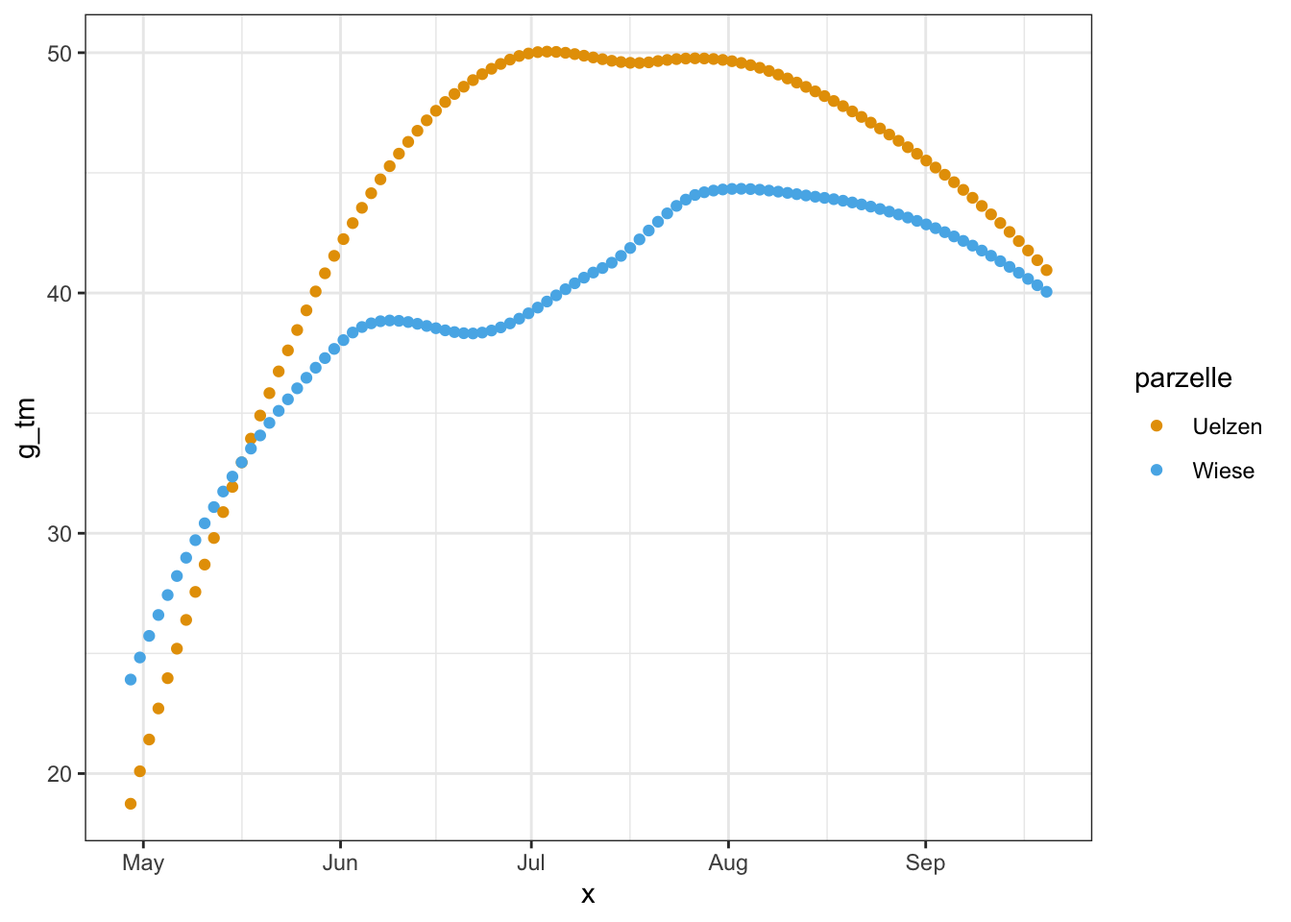
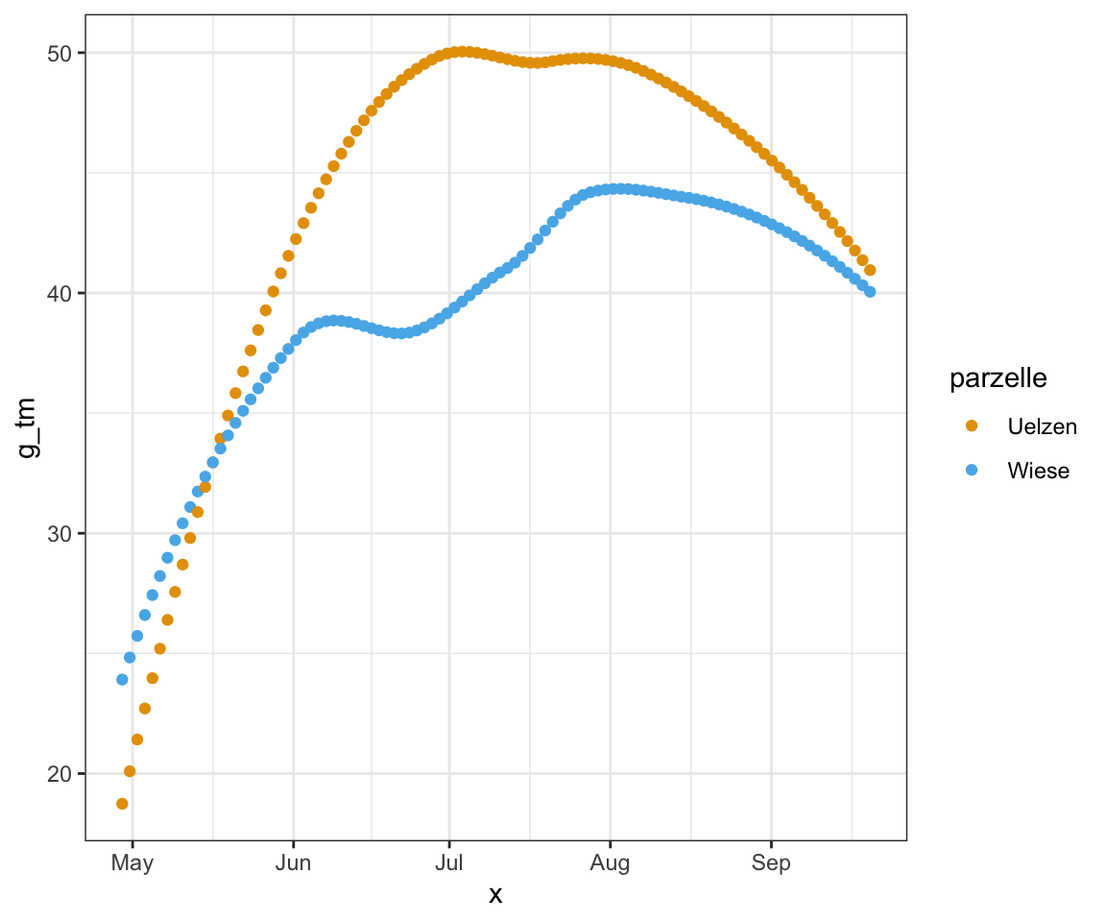
added text

diff --git a/docs/time-space-time-series.html b/docs/time-space-time-series.html
@@ -707,8 +707,18 @@ div.csl-indent {
   <ul>
   <li><a href="#genutzte-r-pakete" id="toc-genutzte-r-pakete" class="nav-link active" data-scroll-target="#genutzte-r-pakete"><span class="header-section-number">59.1</span> Genutzte R Pakete</a></li>
   <li><a href="#daten" id="toc-daten" class="nav-link" data-scroll-target="#daten"><span class="header-section-number">59.2</span> Daten</a></li>
-  <li><a href="#das-datumsformat" id="toc-das-datumsformat" class="nav-link" data-scroll-target="#das-datumsformat"><span class="header-section-number">59.3</span> Das Datumsformat</a></li>
-  <li><a href="#visualisierung" id="toc-visualisierung" class="nav-link" data-scroll-target="#visualisierung"><span class="header-section-number">59.4</span> Visualisierung</a></li>
+  <li><a href="#das-datumsformat" id="toc-das-datumsformat" class="nav-link" data-scroll-target="#das-datumsformat"><span class="header-section-number">59.3</span> Das Datumsformat</a>
+  <ul class="collapse">
+  <li><a href="#die-csh-daten" id="toc-die-csh-daten" class="nav-link" data-scroll-target="#die-csh-daten"><span class="header-section-number">59.3.1</span> Die CSH-Daten</a></li>
+  <li><a href="#die-salatdaten" id="toc-die-salatdaten" class="nav-link" data-scroll-target="#die-salatdaten"><span class="header-section-number">59.3.2</span> Die Salatdaten</a></li>
+  <li><a href="#die-wetterstationsdaten" id="toc-die-wetterstationsdaten" class="nav-link" data-scroll-target="#die-wetterstationsdaten"><span class="header-section-number">59.3.3</span> Die Wetterstationsdaten</a></li>
+  </ul></li>
+  <li><a href="#visualisierung" id="toc-visualisierung" class="nav-link" data-scroll-target="#visualisierung"><span class="header-section-number">59.4</span> Visualisierung</a>
+  <ul class="collapse">
+  <li><a href="#die-csh-daten-1" id="toc-die-csh-daten-1" class="nav-link" data-scroll-target="#die-csh-daten-1"><span class="header-section-number">59.4.1</span> Die CSH Daten</a></li>
+  <li><a href="#salat-daten" id="toc-salat-daten" class="nav-link" data-scroll-target="#salat-daten"><span class="header-section-number">59.4.2</span> Salat Daten</a></li>
+  <li><a href="#die-wetterstationsdaten-1" id="toc-die-wetterstationsdaten-1" class="nav-link" data-scroll-target="#die-wetterstationsdaten-1"><span class="header-section-number">59.4.3</span> Die Wetterstationsdaten</a></li>
+  </ul></li>
   <li><a href="#links" id="toc-links" class="nav-link" data-scroll-target="#links"><span class="header-section-number">59.5</span> Links</a></li>
   <li><a href="#referenzen" id="toc-referenzen" class="nav-link" data-scroll-target="#referenzen">Referenzen</a></li>
   </ul>
@@ -734,7 +744,7 @@ div.csl-indent {
 
 </header>
 
-<p><em>Letzte Änderung am 03. October 2023 um 12:13:49</em></p>
+<p><em>Letzte Änderung am 03. October 2023 um 13:11:06</em></p>
 <blockquote class="blockquote">
 <p><em>“Die Vergangenheit ist geschrieben, aber die Zukunft ist noch nicht in Stein gemeißelt” — Jean-Luc Picard, Star Trek: The Next Generation</em></p>
 </blockquote>
@@ -756,7 +766,7 @@ div.csl-indent {
 </section>
 <section id="daten" class="level2 page-columns page-full" data-number="59.2">
 <h2 data-number="59.2" class="anchored" data-anchor-id="daten"><span class="header-section-number">59.2</span> Daten</h2>
-<p>In diesem Kapitel nutzen wir</p>
+<p>In diesem Kapitel nutzen wir CSH-Datei-Erweiterung ist ein Datenformat als Photoshop-Datei</p>
 <div class="cell">
 <div class="sourceCode cell-code" id="cb2"><pre class="sourceCode r code-with-copy"><code class="sourceCode r"><span id="cb2-1"><a href="#cb2-1" aria-hidden="true" tabindex="-1"></a>csh_tbl <span class="ot">&lt;-</span> <span class="fu">read_excel</span>(<span class="st">"data/csh_data.xlsx"</span>) <span class="sc">%&gt;%</span> </span>
 <span id="cb2-2"><a href="#cb2-2" aria-hidden="true" tabindex="-1"></a>  <span class="fu">clean_names</span>() <span class="sc">%&gt;%</span> </span>
@@ -859,7 +869,7 @@ div.csl-indent {
 </div>
 <p>Nächster Datensatz</p>
 <div class="cell">
-<div class="sourceCode cell-code" id="cb3"><pre class="sourceCode r code-with-copy"><code class="sourceCode r"><span id="cb3-1"><a href="#cb3-1" aria-hidden="true" tabindex="-1"></a>temp_tbl <span class="ot">&lt;-</span> <span class="fu">read_excel</span>(<span class="st">"data/temperatur_salad.xlsx"</span>) <span class="sc">%&gt;%</span> </span>
+<div class="sourceCode cell-code" id="cb3"><pre class="sourceCode r code-with-copy"><code class="sourceCode r"><span id="cb3-1"><a href="#cb3-1" aria-hidden="true" tabindex="-1"></a>salad_tbl <span class="ot">&lt;-</span> <span class="fu">read_excel</span>(<span class="st">"data/temperatur_salad.xlsx"</span>) <span class="sc">%&gt;%</span> </span>
 <span id="cb3-2"><a href="#cb3-2" aria-hidden="true" tabindex="-1"></a>  <span class="fu">clean_names</span>() <span class="sc">%&gt;%</span> </span>
 <span id="cb3-3"><a href="#cb3-3" aria-hidden="true" tabindex="-1"></a>  <span class="fu">mutate_if</span>(is.numeric, round, <span class="dv">2</span>)</span></code><button title="In die Zwischenablage kopieren" class="code-copy-button"><i class="bi"></i></button></pre></div>
 </div>
@@ -1179,6 +1189,8 @@ div.csl-indent {
 <h2 data-number="59.3" class="anchored" data-anchor-id="das-datumsformat"><span class="header-section-number">59.3</span> Das Datumsformat</h2>
 <p>Wichtig ist, dass wir das richtige Datumsformat haben. Siehe dazu auch das Kapitel <a href="programing-strings.html#sec-time-date">Zeit und Datum</a></p>
 <p><a href="https://www.r-bloggers.com/2013/08/date-formats-in-r/">Date Formats in R</a></p>
+<section id="die-csh-daten" class="level3" data-number="59.3.1">
+<h3 data-number="59.3.1" class="anchored" data-anchor-id="die-csh-daten"><span class="header-section-number">59.3.1</span> Die CSH-Daten</h3>
 <div class="cell">
 <div class="sourceCode cell-code" id="cb5"><pre class="sourceCode r code-with-copy"><code class="sourceCode r"><span id="cb5-1"><a href="#cb5-1" aria-hidden="true" tabindex="-1"></a>csh_tbl <span class="ot">&lt;-</span> csh_tbl <span class="sc">%&gt;%</span> </span>
 <span id="cb5-2"><a href="#cb5-2" aria-hidden="true" tabindex="-1"></a>  <span class="fu">mutate</span>(<span class="at">day =</span> <span class="fu">as.Date</span>(<span class="fu">str_pad</span>(day, <span class="dv">4</span>, <span class="at">pad =</span> <span class="st">"0"</span>, <span class="at">side =</span> <span class="st">"left"</span>), <span class="at">format =</span> <span class="st">"%m%d"</span>))</span></code><button title="In die Zwischenablage kopieren" class="code-copy-button"><i class="bi"></i></button></pre></div>
@@ -1196,27 +1208,40 @@ div.csl-indent {
 4 Wiese    2023-04-28      20.9    1521.          8       0.23</code></pre>
 </div>
 </div>
+</section>
+<section id="die-salatdaten" class="level3" data-number="59.3.2">
+<h3 data-number="59.3.2" class="anchored" data-anchor-id="die-salatdaten"><span class="header-section-number">59.3.2</span> Die Salatdaten</h3>
 <div class="cell">
-<div class="sourceCode cell-code" id="cb8"><pre class="sourceCode r code-with-copy"><code class="sourceCode r"><span id="cb8-1"><a href="#cb8-1" aria-hidden="true" tabindex="-1"></a>time_long_tbl <span class="ot">&lt;-</span> time_tbl <span class="sc">%&gt;%</span> </span>
+<div class="sourceCode cell-code" id="cb8"><pre class="sourceCode r code-with-copy"><code class="sourceCode r"><span id="cb8-1"><a href="#cb8-1" aria-hidden="true" tabindex="-1"></a>salad_long_tbl <span class="ot">&lt;-</span> salad_tbl <span class="sc">%&gt;%</span> </span>
 <span id="cb8-2"><a href="#cb8-2" aria-hidden="true" tabindex="-1"></a>  <span class="fu">mutate</span>(<span class="at">uhrzeit =</span> <span class="fu">format</span>(uhrzeit, <span class="at">format =</span> <span class="st">"%H:%M:%S"</span>),</span>
 <span id="cb8-3"><a href="#cb8-3" aria-hidden="true" tabindex="-1"></a>         <span class="at">datum =</span> <span class="fu">format</span>(datum, <span class="at">format =</span> <span class="st">"%Y-%m-%d"</span>),</span>
 <span id="cb8-4"><a href="#cb8-4" aria-hidden="true" tabindex="-1"></a>         <span class="at">datum =</span> <span class="fu">ymd</span>(datum) <span class="sc">+</span> <span class="fu">hms</span>(uhrzeit)) <span class="sc">%&gt;%</span> </span>
-<span id="cb8-5"><a href="#cb8-5" aria-hidden="true" tabindex="-1"></a>  <span class="fu">pivot_longer</span>(x2_messw<span class="sc">:</span><span class="fu">last_col</span>(),</span>
-<span id="cb8-6"><a href="#cb8-6" aria-hidden="true" tabindex="-1"></a>               <span class="at">names_sep =</span> <span class="st">"_"</span>,</span>
-<span id="cb8-7"><a href="#cb8-7" aria-hidden="true" tabindex="-1"></a>               <span class="at">names_to =</span> <span class="fu">c</span>(<span class="st">"wdh"</span>, <span class="st">"type"</span>),</span>
-<span id="cb8-8"><a href="#cb8-8" aria-hidden="true" tabindex="-1"></a>               <span class="at">values_to =</span> <span class="st">"temp"</span>) <span class="sc">%&gt;%</span> </span>
-<span id="cb8-9"><a href="#cb8-9" aria-hidden="true" tabindex="-1"></a>  <span class="fu">mutate</span>(<span class="at">wdh =</span> <span class="fu">str_replace</span>(wdh, <span class="st">"^x"</span>, <span class="st">""</span>))</span></code><button title="In die Zwischenablage kopieren" class="code-copy-button"><i class="bi"></i></button></pre></div>
+<span id="cb8-5"><a href="#cb8-5" aria-hidden="true" tabindex="-1"></a>  <span class="fu">select</span>(<span class="sc">-</span>uhrzeit) <span class="sc">%&gt;%</span> </span>
+<span id="cb8-6"><a href="#cb8-6" aria-hidden="true" tabindex="-1"></a>  <span class="fu">pivot_longer</span>(nord_messw<span class="sc">:</span><span class="fu">last_col</span>(),</span>
+<span id="cb8-7"><a href="#cb8-7" aria-hidden="true" tabindex="-1"></a>               <span class="at">names_sep =</span> <span class="st">"_"</span>,</span>
+<span id="cb8-8"><a href="#cb8-8" aria-hidden="true" tabindex="-1"></a>               <span class="at">names_to =</span> <span class="fu">c</span>(<span class="st">"location"</span>, <span class="st">"type"</span>),</span>
+<span id="cb8-9"><a href="#cb8-9" aria-hidden="true" tabindex="-1"></a>               <span class="at">values_to =</span> <span class="st">"temp"</span>) </span></code><button title="In die Zwischenablage kopieren" class="code-copy-button"><i class="bi"></i></button></pre></div>
 </div>
+</section>
+<section id="die-wetterstationsdaten" class="level3" data-number="59.3.3">
+<h3 data-number="59.3.3" class="anchored" data-anchor-id="die-wetterstationsdaten"><span class="header-section-number">59.3.3</span> Die Wetterstationsdaten</h3>
+<div class="cell">
+<div class="sourceCode cell-code" id="cb9"><pre class="sourceCode r code-with-copy"><code class="sourceCode r"><span id="cb9-1"><a href="#cb9-1" aria-hidden="true" tabindex="-1"></a>station_tbl <span class="ot">&lt;-</span> station_tbl <span class="sc">%&gt;%</span> </span>
+<span id="cb9-2"><a href="#cb9-2" aria-hidden="true" tabindex="-1"></a>  <span class="fu">mutate</span>(<span class="at">datum_uhrzeit =</span> <span class="fu">as_datetime</span>(datum_uhrzeit))</span></code><button title="In die Zwischenablage kopieren" class="code-copy-button"><i class="bi"></i></button></pre></div>
+</div>
+</section>
 </section>
 <section id="visualisierung" class="level2 page-columns page-full" data-number="59.4">
 <h2 data-number="59.4" class="anchored" data-anchor-id="visualisierung"><span class="header-section-number">59.4</span> Visualisierung</h2>
+<section id="die-csh-daten-1" class="level3 page-columns page-full" data-number="59.4.1">
+<h3 data-number="59.4.1" class="anchored" data-anchor-id="die-csh-daten-1"><span class="header-section-number">59.4.1</span> Die CSH Daten</h3>
 <div class="cell" data-layout-align="center">
-<div class="sourceCode cell-code" id="cb9"><pre class="sourceCode r code-with-copy"><code class="sourceCode r"><span id="cb9-1"><a href="#cb9-1" aria-hidden="true" tabindex="-1"></a>csh_tbl <span class="sc">%&gt;%</span> </span>
-<span id="cb9-2"><a href="#cb9-2" aria-hidden="true" tabindex="-1"></a>  <span class="fu">ggplot</span>(<span class="fu">aes</span>(day, g_tm_plot, <span class="at">color =</span> parzelle)) <span class="sc">+</span></span>
-<span id="cb9-3"><a href="#cb9-3" aria-hidden="true" tabindex="-1"></a>  <span class="fu">theme_bw</span>() <span class="sc">+</span></span>
-<span id="cb9-4"><a href="#cb9-4" aria-hidden="true" tabindex="-1"></a>  <span class="fu">geom_point</span>() <span class="sc">+</span></span>
-<span id="cb9-5"><a href="#cb9-5" aria-hidden="true" tabindex="-1"></a>  <span class="fu">stat_smooth</span>(<span class="at">se =</span> <span class="cn">FALSE</span>) <span class="sc">+</span></span>
-<span id="cb9-6"><a href="#cb9-6" aria-hidden="true" tabindex="-1"></a>  <span class="fu">scale_color_okabeito</span>() </span></code><button title="In die Zwischenablage kopieren" class="code-copy-button"><i class="bi"></i></button></pre></div>
+<div class="sourceCode cell-code" id="cb10"><pre class="sourceCode r code-with-copy"><code class="sourceCode r"><span id="cb10-1"><a href="#cb10-1" aria-hidden="true" tabindex="-1"></a>csh_tbl <span class="sc">%&gt;%</span> </span>
+<span id="cb10-2"><a href="#cb10-2" aria-hidden="true" tabindex="-1"></a>  <span class="fu">ggplot</span>(<span class="fu">aes</span>(day, g_tm_plot, <span class="at">color =</span> parzelle)) <span class="sc">+</span></span>
+<span id="cb10-3"><a href="#cb10-3" aria-hidden="true" tabindex="-1"></a>  <span class="fu">theme_bw</span>() <span class="sc">+</span></span>
+<span id="cb10-4"><a href="#cb10-4" aria-hidden="true" tabindex="-1"></a>  <span class="fu">geom_point</span>() <span class="sc">+</span></span>
+<span id="cb10-5"><a href="#cb10-5" aria-hidden="true" tabindex="-1"></a>  <span class="fu">stat_smooth</span>(<span class="at">se =</span> <span class="cn">FALSE</span>) <span class="sc">+</span></span>
+<span id="cb10-6"><a href="#cb10-6" aria-hidden="true" tabindex="-1"></a>  <span class="fu">scale_color_okabeito</span>() </span></code><button title="In die Zwischenablage kopieren" class="code-copy-button"><i class="bi"></i></button></pre></div>
 <div class="cell-output-display">
 <div id="fig-time-csh-1" class="quarto-figure quarto-figure-center anchored">
 <figure class="figure">
@@ -1227,58 +1252,58 @@ div.csl-indent {
 </div>
 </div>
 <div class="cell" data-layout-align="center">
-<div class="sourceCode cell-code" id="annotated-cell-9"><pre class="sourceCode r code-annotation-code code-with-copy code-annotated"><code class="sourceCode r"><span id="annotated-cell-9-1"><a href="#annotated-cell-9-1" aria-hidden="true" tabindex="-1"></a>p_csh <span class="ot">&lt;-</span> csh_tbl <span class="sc">%&gt;%</span> </span>
-<span id="annotated-cell-9-2"><a href="#annotated-cell-9-2" aria-hidden="true" tabindex="-1"></a>  <span class="fu">ggplot</span>() <span class="sc">+</span></span>
-<span id="annotated-cell-9-3"><a href="#annotated-cell-9-3" aria-hidden="true" tabindex="-1"></a>  <span class="fu">theme_bw</span>() <span class="sc">+</span></span>
-<span id="annotated-cell-9-4"><a href="#annotated-cell-9-4" aria-hidden="true" tabindex="-1"></a>  <span class="fu">scale_color_okabeito</span>() <span class="sc">+</span></span>
-<button class="code-annotation-anchor" data-target-cell="annotated-cell-9" data-target-annotation="1">1</button><span id="annotated-cell-9-5" class="code-annotation-target"><a href="#annotated-cell-9-5" aria-hidden="true" tabindex="-1"></a>  <span class="fu">stat_smooth</span>(<span class="fu">aes</span>(day, g_tm_plot, <span class="at">color =</span> parzelle), <span class="at">se =</span> <span class="cn">FALSE</span>, <span class="at">n =</span> <span class="dv">100</span>)</span><div class="code-annotation-gutter-bg"></div><div class="code-annotation-gutter"></div></code><button title="In die Zwischenablage kopieren" class="code-copy-button"><i class="bi"></i></button></pre></div>
+<div class="sourceCode cell-code" id="annotated-cell-10"><pre class="sourceCode r code-annotation-code code-with-copy code-annotated"><code class="sourceCode r"><span id="annotated-cell-10-1"><a href="#annotated-cell-10-1" aria-hidden="true" tabindex="-1"></a>p_csh <span class="ot">&lt;-</span> csh_tbl <span class="sc">%&gt;%</span> </span>
+<span id="annotated-cell-10-2"><a href="#annotated-cell-10-2" aria-hidden="true" tabindex="-1"></a>  <span class="fu">ggplot</span>() <span class="sc">+</span></span>
+<span id="annotated-cell-10-3"><a href="#annotated-cell-10-3" aria-hidden="true" tabindex="-1"></a>  <span class="fu">theme_bw</span>() <span class="sc">+</span></span>
+<span id="annotated-cell-10-4"><a href="#annotated-cell-10-4" aria-hidden="true" tabindex="-1"></a>  <span class="fu">scale_color_okabeito</span>() <span class="sc">+</span></span>
+<button class="code-annotation-anchor" data-target-cell="annotated-cell-10" data-target-annotation="1">1</button><span id="annotated-cell-10-5" class="code-annotation-target"><a href="#annotated-cell-10-5" aria-hidden="true" tabindex="-1"></a>  <span class="fu">stat_smooth</span>(<span class="fu">aes</span>(day, g_tm_plot, <span class="at">color =</span> parzelle), <span class="at">se =</span> <span class="cn">FALSE</span>, <span class="at">n =</span> <span class="dv">100</span>)</span><div class="code-annotation-gutter-bg"></div><div class="code-annotation-gutter"></div></code><button title="In die Zwischenablage kopieren" class="code-copy-button"><i class="bi"></i></button></pre></div>
 <div class="cell-annotation">
 <dl class="code-annotation-container-hidden code-annotation-container-grid">
-<dt data-target-cell="annotated-cell-9" data-target-annotation="1">1</dt>
+<dt data-target-cell="annotated-cell-10" data-target-annotation="1">1</dt>
 <dd>
-<span data-code-cell="annotated-cell-9" data-code-annotation="1" data-code-lines="5">Setze <code>n = 1000</code> um wirklich eine gute Abdeckung später für die Berechung der Fläche zu haben.</span>
+<span data-code-lines="5" data-code-annotation="1" data-code-cell="annotated-cell-10">Setze <code>n = 1000</code> um wirklich eine gute Abdeckung später für die Berechung der Fläche zu haben.</span>
 </dd>
 </dl>
 </div>
 </div>
 <div class="cell">
-<div class="sourceCode cell-code" id="cb10"><pre class="sourceCode r code-with-copy"><code class="sourceCode r"><span id="cb10-1"><a href="#cb10-1" aria-hidden="true" tabindex="-1"></a>p_csh_str <span class="ot">&lt;-</span> <span class="fu">ggplot_build</span>(p_csh)</span></code><button title="In die Zwischenablage kopieren" class="code-copy-button"><i class="bi"></i></button></pre></div>
+<div class="sourceCode cell-code" id="cb11"><pre class="sourceCode r code-with-copy"><code class="sourceCode r"><span id="cb11-1"><a href="#cb11-1" aria-hidden="true" tabindex="-1"></a>p_csh_str <span class="ot">&lt;-</span> <span class="fu">ggplot_build</span>(p_csh)</span></code><button title="In die Zwischenablage kopieren" class="code-copy-button"><i class="bi"></i></button></pre></div>
 </div>
 <div class="cell">
-<div class="sourceCode cell-code" id="annotated-cell-11"><pre class="sourceCode r code-annotation-code code-with-copy code-annotated"><code class="sourceCode r"><span id="annotated-cell-11-1"><a href="#annotated-cell-11-1" aria-hidden="true" tabindex="-1"></a>ribbon_tbl <span class="ot">&lt;-</span> p_csh_str <span class="sc">%&gt;%</span> </span>
-<span id="annotated-cell-11-2"><a href="#annotated-cell-11-2" aria-hidden="true" tabindex="-1"></a>  <span class="fu">pluck</span>(<span class="st">"data"</span>, <span class="dv">1</span>) <span class="sc">%&gt;%</span> </span>
-<span id="annotated-cell-11-3"><a href="#annotated-cell-11-3" aria-hidden="true" tabindex="-1"></a>  <span class="fu">as_tibble</span>() <span class="sc">%&gt;%</span> </span>
-<span id="annotated-cell-11-4"><a href="#annotated-cell-11-4" aria-hidden="true" tabindex="-1"></a>  <span class="fu">select</span>(x, y, group) <span class="sc">%&gt;%</span> </span>
-<span id="annotated-cell-11-5"><a href="#annotated-cell-11-5" aria-hidden="true" tabindex="-1"></a>  <span class="fu">mutate</span>(<span class="at">group =</span> <span class="fu">factor</span>(group, <span class="at">labels =</span> <span class="fu">c</span>(<span class="st">"Uelzen"</span>, <span class="st">"Wiese"</span>))) <span class="sc">%&gt;%</span> </span>
-<span id="annotated-cell-11-6"><a href="#annotated-cell-11-6" aria-hidden="true" tabindex="-1"></a>  <span class="fu">split</span>(.<span class="sc">$</span>group) <span class="sc">%&gt;%</span> </span>
-<span id="annotated-cell-11-7"><a href="#annotated-cell-11-7" aria-hidden="true" tabindex="-1"></a>  <span class="fu">bind_cols</span>() <span class="sc">%&gt;%</span> </span>
-<span id="annotated-cell-11-8"><a href="#annotated-cell-11-8" aria-hidden="true" tabindex="-1"></a>  <span class="fu">clean_names</span>() <span class="sc">%&gt;%</span> </span>
-<button class="code-annotation-anchor" data-target-cell="annotated-cell-11" data-target-annotation="1">1</button><span id="annotated-cell-11-9" class="code-annotation-target"><a href="#annotated-cell-11-9" aria-hidden="true" tabindex="-1"></a>  <span class="fu">select</span>(<span class="at">x =</span> x_1, <span class="at">Uelzen =</span> y_2, <span class="at">Wiese =</span> y_5) <span class="sc">%&gt;%</span></span>
-<button class="code-annotation-anchor" data-target-cell="annotated-cell-11" data-target-annotation="2">2</button><span id="annotated-cell-11-10" class="code-annotation-target"><a href="#annotated-cell-11-10" aria-hidden="true" tabindex="-1"></a>  <span class="fu">mutate</span>(<span class="at">x =</span> <span class="fu">as_date</span>(x, <span class="at">origin =</span> lubridate<span class="sc">::</span>origin))</span><div class="code-annotation-gutter-bg"></div><div class="code-annotation-gutter"></div></code><button title="In die Zwischenablage kopieren" class="code-copy-button"><i class="bi"></i></button></pre></div>
+<div class="sourceCode cell-code" id="annotated-cell-12"><pre class="sourceCode r code-annotation-code code-with-copy code-annotated"><code class="sourceCode r"><span id="annotated-cell-12-1"><a href="#annotated-cell-12-1" aria-hidden="true" tabindex="-1"></a>ribbon_tbl <span class="ot">&lt;-</span> p_csh_str <span class="sc">%&gt;%</span> </span>
+<span id="annotated-cell-12-2"><a href="#annotated-cell-12-2" aria-hidden="true" tabindex="-1"></a>  <span class="fu">pluck</span>(<span class="st">"data"</span>, <span class="dv">1</span>) <span class="sc">%&gt;%</span> </span>
+<span id="annotated-cell-12-3"><a href="#annotated-cell-12-3" aria-hidden="true" tabindex="-1"></a>  <span class="fu">as_tibble</span>() <span class="sc">%&gt;%</span> </span>
+<span id="annotated-cell-12-4"><a href="#annotated-cell-12-4" aria-hidden="true" tabindex="-1"></a>  <span class="fu">select</span>(x, y, group) <span class="sc">%&gt;%</span> </span>
+<span id="annotated-cell-12-5"><a href="#annotated-cell-12-5" aria-hidden="true" tabindex="-1"></a>  <span class="fu">mutate</span>(<span class="at">group =</span> <span class="fu">factor</span>(group, <span class="at">labels =</span> <span class="fu">c</span>(<span class="st">"Uelzen"</span>, <span class="st">"Wiese"</span>))) <span class="sc">%&gt;%</span> </span>
+<span id="annotated-cell-12-6"><a href="#annotated-cell-12-6" aria-hidden="true" tabindex="-1"></a>  <span class="fu">split</span>(.<span class="sc">$</span>group) <span class="sc">%&gt;%</span> </span>
+<span id="annotated-cell-12-7"><a href="#annotated-cell-12-7" aria-hidden="true" tabindex="-1"></a>  <span class="fu">bind_cols</span>() <span class="sc">%&gt;%</span> </span>
+<span id="annotated-cell-12-8"><a href="#annotated-cell-12-8" aria-hidden="true" tabindex="-1"></a>  <span class="fu">clean_names</span>() <span class="sc">%&gt;%</span> </span>
+<button class="code-annotation-anchor" data-target-cell="annotated-cell-12" data-target-annotation="1">1</button><span id="annotated-cell-12-9" class="code-annotation-target"><a href="#annotated-cell-12-9" aria-hidden="true" tabindex="-1"></a>  <span class="fu">select</span>(<span class="at">x =</span> x_1, <span class="at">Uelzen =</span> y_2, <span class="at">Wiese =</span> y_5) <span class="sc">%&gt;%</span></span>
+<button class="code-annotation-anchor" data-target-cell="annotated-cell-12" data-target-annotation="2">2</button><span id="annotated-cell-12-10" class="code-annotation-target"><a href="#annotated-cell-12-10" aria-hidden="true" tabindex="-1"></a>  <span class="fu">mutate</span>(<span class="at">x =</span> <span class="fu">as_date</span>(x, <span class="at">origin =</span> lubridate<span class="sc">::</span>origin))</span><div class="code-annotation-gutter-bg"></div><div class="code-annotation-gutter"></div></code><button title="In die Zwischenablage kopieren" class="code-copy-button"><i class="bi"></i></button></pre></div>
 <div class="cell-annotation">
 <dl class="code-annotation-container-hidden code-annotation-container-grid">
-<dt data-target-cell="annotated-cell-11" data-target-annotation="1">1</dt>
+<dt data-target-cell="annotated-cell-12" data-target-annotation="1">1</dt>
 <dd>
-<span data-code-cell="annotated-cell-11" data-code-annotation="1" data-code-lines="9">Die <code>y_2</code> Werte sind die Werte aus Uelzen und die <code>y_5</code> Werte von der Wiese.</span>
+<span data-code-lines="9" data-code-annotation="1" data-code-cell="annotated-cell-12">Die <code>y_2</code> Werte sind die Werte aus Uelzen und die <code>y_5</code> Werte von der Wiese.</span>
 </dd>
-<dt data-target-cell="annotated-cell-11" data-target-annotation="2">2</dt>
+<dt data-target-cell="annotated-cell-12" data-target-annotation="2">2</dt>
 <dd>
-<span data-code-cell="annotated-cell-11" data-code-annotation="2" data-code-lines="10">Die <code>x</code>-Werte sind noch das Datum in numerischer Form aus <code>ggplot()</code>. Hier wieder zurück ins <code>yyyy-mm-dd</code> Format.</span>
+<span data-code-lines="10" data-code-annotation="2" data-code-cell="annotated-cell-12">Die <code>x</code>-Werte sind noch das Datum in numerischer Form aus <code>ggplot()</code>. Hier wieder zurück ins <code>yyyy-mm-dd</code> Format.</span>
 </dd>
 </dl>
 </div>
 </div>
 <div class="page-columns page-full">
-<div class="sourceCode cell-code" id="cb11"><pre class="sourceCode r code-with-copy"><code class="sourceCode r"><span id="cb11-1"><a href="#cb11-1" aria-hidden="true" tabindex="-1"></a>p_csh <span class="sc">+</span> </span>
-<span id="cb11-2"><a href="#cb11-2" aria-hidden="true" tabindex="-1"></a>  <span class="fu">geom_ribbon</span>(<span class="at">data =</span> ribbon_tbl, <span class="fu">aes</span>(<span class="at">x =</span> x, <span class="at">ymin =</span> Wiese, <span class="at">ymax =</span> Uelzen),</span>
-<span id="cb11-3"><a href="#cb11-3" aria-hidden="true" tabindex="-1"></a>                    <span class="at">fill =</span> <span class="st">"grey"</span>, <span class="at">alpha =</span> <span class="fl">0.4</span>) <span class="sc">+</span></span>
-<span id="cb11-4"><a href="#cb11-4" aria-hidden="true" tabindex="-1"></a>  <span class="fu">ylim</span>(<span class="dv">10</span>, <span class="dv">120</span>)</span>
-<span id="cb11-5"><a href="#cb11-5" aria-hidden="true" tabindex="-1"></a></span>
-<span id="cb11-6"><a href="#cb11-6" aria-hidden="true" tabindex="-1"></a>p_csh <span class="sc">+</span> </span>
-<span id="cb11-7"><a href="#cb11-7" aria-hidden="true" tabindex="-1"></a>  <span class="fu">geom_ribbon</span>(<span class="at">data =</span> ribbon_tbl, <span class="fu">aes</span>(<span class="at">x =</span> x, <span class="at">ymin =</span> Wiese, <span class="at">ymax =</span> Uelzen),</span>
-<span id="cb11-8"><a href="#cb11-8" aria-hidden="true" tabindex="-1"></a>                    <span class="at">fill =</span> <span class="st">"grey"</span>, <span class="at">alpha =</span> <span class="fl">0.4</span>) <span class="sc">+</span></span>
-<span id="cb11-9"><a href="#cb11-9" aria-hidden="true" tabindex="-1"></a>  <span class="fu">geom_point</span>(<span class="fu">aes</span>(day, g_tm_plot, <span class="at">color =</span> parzelle)) <span class="sc">+</span></span>
-<span id="cb11-10"><a href="#cb11-10" aria-hidden="true" tabindex="-1"></a>  <span class="fu">ylim</span>(<span class="dv">10</span>, <span class="dv">120</span>)</span></code><button title="In die Zwischenablage kopieren" class="code-copy-button"><i class="bi"></i></button></pre></div>
+<div class="sourceCode cell-code" id="cb12"><pre class="sourceCode r code-with-copy"><code class="sourceCode r"><span id="cb12-1"><a href="#cb12-1" aria-hidden="true" tabindex="-1"></a>p_csh <span class="sc">+</span> </span>
+<span id="cb12-2"><a href="#cb12-2" aria-hidden="true" tabindex="-1"></a>  <span class="fu">geom_ribbon</span>(<span class="at">data =</span> ribbon_tbl, <span class="fu">aes</span>(<span class="at">x =</span> x, <span class="at">ymin =</span> Wiese, <span class="at">ymax =</span> Uelzen),</span>
+<span id="cb12-3"><a href="#cb12-3" aria-hidden="true" tabindex="-1"></a>                    <span class="at">fill =</span> <span class="st">"grey"</span>, <span class="at">alpha =</span> <span class="fl">0.4</span>) <span class="sc">+</span></span>
+<span id="cb12-4"><a href="#cb12-4" aria-hidden="true" tabindex="-1"></a>  <span class="fu">ylim</span>(<span class="dv">10</span>, <span class="dv">120</span>)</span>
+<span id="cb12-5"><a href="#cb12-5" aria-hidden="true" tabindex="-1"></a></span>
+<span id="cb12-6"><a href="#cb12-6" aria-hidden="true" tabindex="-1"></a>p_csh <span class="sc">+</span> </span>
+<span id="cb12-7"><a href="#cb12-7" aria-hidden="true" tabindex="-1"></a>  <span class="fu">geom_ribbon</span>(<span class="at">data =</span> ribbon_tbl, <span class="fu">aes</span>(<span class="at">x =</span> x, <span class="at">ymin =</span> Wiese, <span class="at">ymax =</span> Uelzen),</span>
+<span id="cb12-8"><a href="#cb12-8" aria-hidden="true" tabindex="-1"></a>                    <span class="at">fill =</span> <span class="st">"grey"</span>, <span class="at">alpha =</span> <span class="fl">0.4</span>) <span class="sc">+</span></span>
+<span id="cb12-9"><a href="#cb12-9" aria-hidden="true" tabindex="-1"></a>  <span class="fu">geom_point</span>(<span class="fu">aes</span>(day, g_tm_plot, <span class="at">color =</span> parzelle)) <span class="sc">+</span></span>
+<span id="cb12-10"><a href="#cb12-10" aria-hidden="true" tabindex="-1"></a>  <span class="fu">ylim</span>(<span class="dv">10</span>, <span class="dv">120</span>)</span></code><button title="In die Zwischenablage kopieren" class="code-copy-button"><i class="bi"></i></button></pre></div>
 <div id="fig-time-csh-3" class="cell column-page quarto-layout-panel">
 <figure class="figure">
 <div class="quarto-layout-row quarto-layout-valign-top">
@@ -1304,33 +1329,63 @@ div.csl-indent {
 </div>
 </div>
 <div class="cell">
-<div class="sourceCode cell-code" id="cb12"><pre class="sourceCode r code-with-copy"><code class="sourceCode r"><span id="cb12-1"><a href="#cb12-1" aria-hidden="true" tabindex="-1"></a>ribbon_tbl <span class="sc">%&gt;%</span> </span>
-<span id="cb12-2"><a href="#cb12-2" aria-hidden="true" tabindex="-1"></a>  <span class="fu">mutate</span>(<span class="at">diff =</span> Uelzen <span class="sc">-</span> Wiese) <span class="sc">%&gt;%</span> </span>
-<span id="cb12-3"><a href="#cb12-3" aria-hidden="true" tabindex="-1"></a>  <span class="fu">pull</span>(diff) <span class="sc">%&gt;%</span> </span>
-<span id="cb12-4"><a href="#cb12-4" aria-hidden="true" tabindex="-1"></a>  <span class="fu">sum</span>()</span></code><button title="In die Zwischenablage kopieren" class="code-copy-button"><i class="bi"></i></button></pre></div>
+<div class="sourceCode cell-code" id="cb13"><pre class="sourceCode r code-with-copy"><code class="sourceCode r"><span id="cb13-1"><a href="#cb13-1" aria-hidden="true" tabindex="-1"></a>ribbon_tbl <span class="sc">%&gt;%</span> </span>
+<span id="cb13-2"><a href="#cb13-2" aria-hidden="true" tabindex="-1"></a>  <span class="fu">mutate</span>(<span class="at">diff =</span> Uelzen <span class="sc">-</span> Wiese) <span class="sc">%&gt;%</span> </span>
+<span id="cb13-3"><a href="#cb13-3" aria-hidden="true" tabindex="-1"></a>  <span class="fu">pull</span>(diff) <span class="sc">%&gt;%</span> </span>
+<span id="cb13-4"><a href="#cb13-4" aria-hidden="true" tabindex="-1"></a>  <span class="fu">sum</span>()</span></code><button title="In die Zwischenablage kopieren" class="code-copy-button"><i class="bi"></i></button></pre></div>
 <div class="cell-output cell-output-stdout">
 <pre><code>[1] 441.0318</code></pre>
 </div>
 </div>
 <p>Wenn wir oben <code>n = 1000</code> in der Funktion <code>stat_smooth()</code> gesetzt hätten, dann hätten wir hier fast eine Linie aus Punkten ohne Lücken.</p>
 <div class="cell" data-layout-align="center">
-<div class="sourceCode cell-code" id="cb14"><pre class="sourceCode r code-with-copy"><code class="sourceCode r"><span id="cb14-1"><a href="#cb14-1" aria-hidden="true" tabindex="-1"></a>ribbon_tbl <span class="sc">%&gt;%</span> </span>
-<span id="cb14-2"><a href="#cb14-2" aria-hidden="true" tabindex="-1"></a>  <span class="fu">pivot_longer</span>(<span class="at">cols =</span> Uelzen<span class="sc">:</span>Wiese,</span>
-<span id="cb14-3"><a href="#cb14-3" aria-hidden="true" tabindex="-1"></a>               <span class="at">values_to =</span> <span class="st">"g_tm"</span>,</span>
-<span id="cb14-4"><a href="#cb14-4" aria-hidden="true" tabindex="-1"></a>               <span class="at">names_to =</span> <span class="st">"parzelle"</span>) <span class="sc">%&gt;%</span> </span>
-<span id="cb14-5"><a href="#cb14-5" aria-hidden="true" tabindex="-1"></a>  <span class="fu">ggplot</span>(<span class="fu">aes</span>(x, g_tm, <span class="at">color =</span> parzelle)) <span class="sc">+</span></span>
-<span id="cb14-6"><a href="#cb14-6" aria-hidden="true" tabindex="-1"></a>  <span class="fu">theme_bw</span>() <span class="sc">+</span></span>
-<span id="cb14-7"><a href="#cb14-7" aria-hidden="true" tabindex="-1"></a>  <span class="fu">scale_color_okabeito</span>() <span class="sc">+</span></span>
-<span id="cb14-8"><a href="#cb14-8" aria-hidden="true" tabindex="-1"></a>  <span class="fu">geom_point</span>()</span></code><button title="In die Zwischenablage kopieren" class="code-copy-button"><i class="bi"></i></button></pre></div>
+<div class="sourceCode cell-code" id="cb15"><pre class="sourceCode r code-with-copy"><code class="sourceCode r"><span id="cb15-1"><a href="#cb15-1" aria-hidden="true" tabindex="-1"></a>ribbon_tbl <span class="sc">%&gt;%</span> </span>
+<span id="cb15-2"><a href="#cb15-2" aria-hidden="true" tabindex="-1"></a>  <span class="fu">pivot_longer</span>(<span class="at">cols =</span> Uelzen<span class="sc">:</span>Wiese,</span>
+<span id="cb15-3"><a href="#cb15-3" aria-hidden="true" tabindex="-1"></a>               <span class="at">values_to =</span> <span class="st">"g_tm"</span>,</span>
+<span id="cb15-4"><a href="#cb15-4" aria-hidden="true" tabindex="-1"></a>               <span class="at">names_to =</span> <span class="st">"parzelle"</span>) <span class="sc">%&gt;%</span> </span>
+<span id="cb15-5"><a href="#cb15-5" aria-hidden="true" tabindex="-1"></a>  <span class="fu">ggplot</span>(<span class="fu">aes</span>(x, g_tm, <span class="at">color =</span> parzelle)) <span class="sc">+</span></span>
+<span id="cb15-6"><a href="#cb15-6" aria-hidden="true" tabindex="-1"></a>  <span class="fu">theme_bw</span>() <span class="sc">+</span></span>
+<span id="cb15-7"><a href="#cb15-7" aria-hidden="true" tabindex="-1"></a>  <span class="fu">scale_color_okabeito</span>() <span class="sc">+</span></span>
+<span id="cb15-8"><a href="#cb15-8" aria-hidden="true" tabindex="-1"></a>  <span class="fu">geom_point</span>()</span></code><button title="In die Zwischenablage kopieren" class="code-copy-button"><i class="bi"></i></button></pre></div>
 <div class="cell-output-display">
 <div id="fig-time-csh-4" class="quarto-figure quarto-figure-center anchored">
 <figure class="figure">
-<p><img src="time-space-time-series_files/figure-html/fig-time-csh-4-1.png" class="img-fluid figure-img" width="672"></p>
+<p><img src="time-space-time-series_files/figure-html/fig-time-csh-4-1.png" class="img-fluid figure-img" width="576"></p>
 <figcaption class="figure-caption">Abbildung&nbsp;59.3— Eigenwerte für die beiden Datensätze.</figcaption>
 </figure>
 </div>
 </div>
 </div>
+</section>
+<section id="salat-daten" class="level3" data-number="59.4.2">
+<h3 data-number="59.4.2" class="anchored" data-anchor-id="salat-daten"><span class="header-section-number">59.4.2</span> Salat Daten</h3>
+<div class="cell" data-layout-align="center">
+<div class="sourceCode cell-code" id="cb16"><pre class="sourceCode r code-with-copy"><code class="sourceCode r"><span id="cb16-1"><a href="#cb16-1" aria-hidden="true" tabindex="-1"></a>salad_long_tbl <span class="sc">%&gt;%</span> </span>
+<span id="cb16-2"><a href="#cb16-2" aria-hidden="true" tabindex="-1"></a>  <span class="fu">ggplot</span>(<span class="fu">aes</span>(datum, temp, <span class="at">color =</span> type)) <span class="sc">+</span></span>
+<span id="cb16-3"><a href="#cb16-3" aria-hidden="true" tabindex="-1"></a>  <span class="fu">theme_bw</span>() <span class="sc">+</span></span>
+<span id="cb16-4"><a href="#cb16-4" aria-hidden="true" tabindex="-1"></a>  <span class="fu">scale_color_okabeito</span>() <span class="sc">+</span></span>
+<span id="cb16-5"><a href="#cb16-5" aria-hidden="true" tabindex="-1"></a>  <span class="fu">geom_line</span>() <span class="sc">+</span></span>
+<span id="cb16-6"><a href="#cb16-6" aria-hidden="true" tabindex="-1"></a>  <span class="fu">facet_wrap</span>(<span class="sc">~</span> location)</span></code><button title="In die Zwischenablage kopieren" class="code-copy-button"><i class="bi"></i></button></pre></div>
+<div class="cell-output-display">
+<div id="fig-time-salad-1" class="quarto-figure quarto-figure-center anchored">
+<figure class="figure">
+<p><img src="time-space-time-series_files/figure-html/fig-time-salad-1-1.png" class="img-fluid figure-img" width="576"></p>
+<figcaption class="figure-caption">Abbildung&nbsp;59.4— Eigenwerte für die beiden Datensätze.</figcaption>
+</figure>
+</div>
+</div>
+</div>
+</section>
+<section id="die-wetterstationsdaten-1" class="level3" data-number="59.4.3">
+<h3 data-number="59.4.3" class="anchored" data-anchor-id="die-wetterstationsdaten-1"><span class="header-section-number">59.4.3</span> Die Wetterstationsdaten</h3>
+<div class="cell" data-layout-align="center">
+<div class="sourceCode cell-code" id="cb17"><pre class="sourceCode r code-with-copy"><code class="sourceCode r"><span id="cb17-1"><a href="#cb17-1" aria-hidden="true" tabindex="-1"></a>station_tbl <span class="sc">%&gt;%</span> </span>
+<span id="cb17-2"><a href="#cb17-2" aria-hidden="true" tabindex="-1"></a>  <span class="fu">ggplot</span>(<span class="fu">aes</span>(datum_uhrzeit, temp_boden_durch)) <span class="sc">+</span></span>
+<span id="cb17-3"><a href="#cb17-3" aria-hidden="true" tabindex="-1"></a>  <span class="fu">theme_bw</span>() <span class="sc">+</span></span>
+<span id="cb17-4"><a href="#cb17-4" aria-hidden="true" tabindex="-1"></a>  <span class="fu">scale_color_okabeito</span>() <span class="sc">+</span></span>
+<span id="cb17-5"><a href="#cb17-5" aria-hidden="true" tabindex="-1"></a>  <span class="fu">geom_line</span>() </span></code><button title="In die Zwischenablage kopieren" class="code-copy-button"><i class="bi"></i></button></pre></div>
+</div>
+</section>
 </section>
 <section id="links" class="level2" data-number="59.5">
 <h2 data-number="59.5" class="anchored" data-anchor-id="links"><span class="header-section-number">59.5</span> Links</h2>
